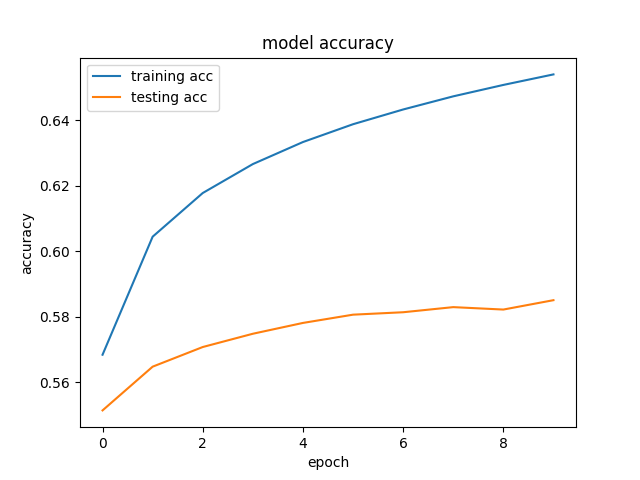
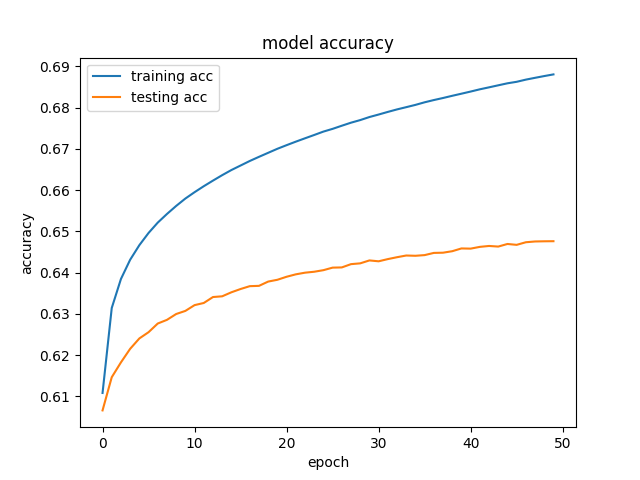
notebook update

diff --git a/mshah1/mlpTest.py b/mshah1/mlpTest.py
@@ -179,7 +179,7 @@ def DBN_DNN(inp,nClasses,depth,width,batch_size=2048):
 	sigma = np.std(inp)
 	# sigma = 1
 	rbm = GBRBM(n_visible=inp.shape[1],n_hidden=width,learning_rate=0.002, momentum=0.90, use_tqdm=True,sample_visible=True,sigma=sigma)
-	rbm.fit(inp,n_epoches=225,batch_size=batch_size,shuffle=True)
+	rbm.fit(inp,n_epoches=100,batch_size=batch_size,shuffle=True)
 	RBMs.append(rbm)
 	for i in range(depth - 1):
 		print 'training DBN layer', i
@@ -351,17 +351,18 @@ def writeSenScores(filename,scores):
 	n_active = scores.shape[1]
 	s = """s3
 version 0.1
-mdef_file ../../wsj_all_cd30.mllt_cd_cont_4000//mdef
-n_sen 132
-logbase 1.000100
+mdef_file ../../en_us.ci_cont/mdef
+n_sen 138
+logbase 1.000300
 endhdr
 """
 	s += struct.pack('l',0x11223344)
-	scores = np.log(scores)/np.log(1.0001)
+	scores = np.log(scores)/np.log(1.0003)
 	truncateToShort = lambda x: 32676 if x > 32767 else (-32768 if x < -32768 else x)
 	vf = np.vectorize(truncateToShort)
 	scores = vf(scores)
 	scores -= np.max(scores)
+	scores /= np.sum(scores)
 	for r in scores:
 		s += struct.pack('h',n_active)
 		r_str = struct.pack('%sh' % len(r), *r)
@@ -374,13 +375,17 @@ def getPreds(model,filelist,file_dir,file_ext,res_dir,res_ext,context_len=4):
 	with open(filelist) as f:
 		files = f.readlines()
 		files = map(lambda x: x.strip(),files)
-	filepaths = map(lambda x: file_dir+x+file_ext,files)[:500]
+	filepaths = map(lambda x: file_dir+x+file_ext,files)
 	scaler = StandardScaler(copy=False,with_std=False)
 	for i in range(len(filepaths)):
 		stdout.write("\r%d/%d 	" % (i,len(filepaths)))
 		stdout.flush()
 
 		f = filepaths[i]
+
+		if not os.path.exists(f):
+			print "\n",f
+			continue
 		data = np.loadtxt(f)
 		data = scaler.fit_transform(data)
 
@@ -402,37 +407,37 @@ def getPreds(model,filelist,file_dir,file_ext,res_dir,res_ext,context_len=4):
 			os.makedirs(dirname)
 		writeSenScores(res_file_path,preds)
 
-# print 'loading data...'
-# meta = np.load('wsj0_phonelabels_bracketed_meta.npz')
-# x_train = np.load('wsj0_phonelabels_bracketed_train.npy',mmap_mode='r')
-# y_train = np.load('wsj0_phonelabels_bracketed_train_labels.npy')
-# # end = x_train.shape[0] % 2048
-# # x_train = x_train[:-end]
-# # y_train = y_train[:-end]
-# nClasses = 138
-# print nClasses
-# print 'transforming labels...'
-# y_train = to_categorical(y_train, num_classes = nClasses)
+print 'loading data...'
+meta = np.load('wsj0_phonelabels_bracketed_meta.npz')
+x_train = np.load('wsj0_phonelabels_bracketed_train.npy',mmap_mode='r')
+y_train = np.load('wsj0_phonelabels_bracketed_train_labels.npy')
+# end = x_train.shape[0] % 2048
+# x_train = x_train[:-end]
+# y_train = y_train[:-end]
+nClasses = 138
+print nClasses
+print 'transforming labels...'
+y_train = to_categorical(y_train, num_classes = nClasses)
 
-# print 'loading test data...'
-# x_test = np.load('wsj0_phonelabels_bracketed_dev.npy',mmap_mode='r')
-# y_test = np.load('wsj0_phonelabels_bracketed_dev_labels.npy')
+print 'loading test data...'
+x_test = np.load('wsj0_phonelabels_bracketed_dev.npy',mmap_mode='r')
+y_test = np.load('wsj0_phonelabels_bracketed_dev_labels.npy')
 # # end = x_test.shape[0] % 2048
 # # x_test = x_test[:-end]
 # # y_test = y_test[:-end]
 # # x_test = x_train
 # # y_test = y_train
-# print 'transforming labels...'
-# y_test = to_categorical(y_test, num_classes = nClasses)
+print 'transforming labels...'
+y_test = to_categorical(y_test, num_classes = nClasses)
 
-# print 'initializing model...'
+print 'initializing model...'
 # model = mlp1(x_train.shape[1], nClasses,2,2048,BN=True)
-# # model = load_model('test_CP.h5')
-# # model = DBN_DNN(x_train, nClasses,3,2048)
-# trainNtest(model,x_train,y_train,x_test,y_test,meta,'mlp1-3x2048-sig-adagrad-BN','mlp1-3x2048-sig-adagrad-BN',pretrain=True)
+# model = load_model('test_CP.h5')
+model = DBN_DNN(x_train, nClasses,3,2048)
+trainNtest(model,x_train,y_train,x_test,y_test,meta,'dbn-3x2048-sig-adagrad','dbn-3x2048-sig-adagrad')
 
-model = load_model('mlp1-3x2048-sig-adagrad-BN_CP.h5')
-getPreds(model,'SI_ET_20.NDX','/home/mshah1/wsj/wsj0/feat_ci_mls/','.mfc','/home/mshah1/wsj/wsj0/senscores/','.sen')
+# model = load_model('mlp1-3x2048-sig-adagrad-BN_CP.h5')
+# getPreds(model,'SI_ET_20.NDX','/home/mshah1/wsj/wsj0/feat_ci_mls/','.mfc','/home/mshah1/wsj/wsj0/senscores/','.sen')
 # pred = model.predict(x_test[:meta['framePos_Dev'][0] - meta['framePos_Train'][-1]],verbose=1)
 # writeSenScores('senScores',pred)
 # np.save('pred.npy',pred)
